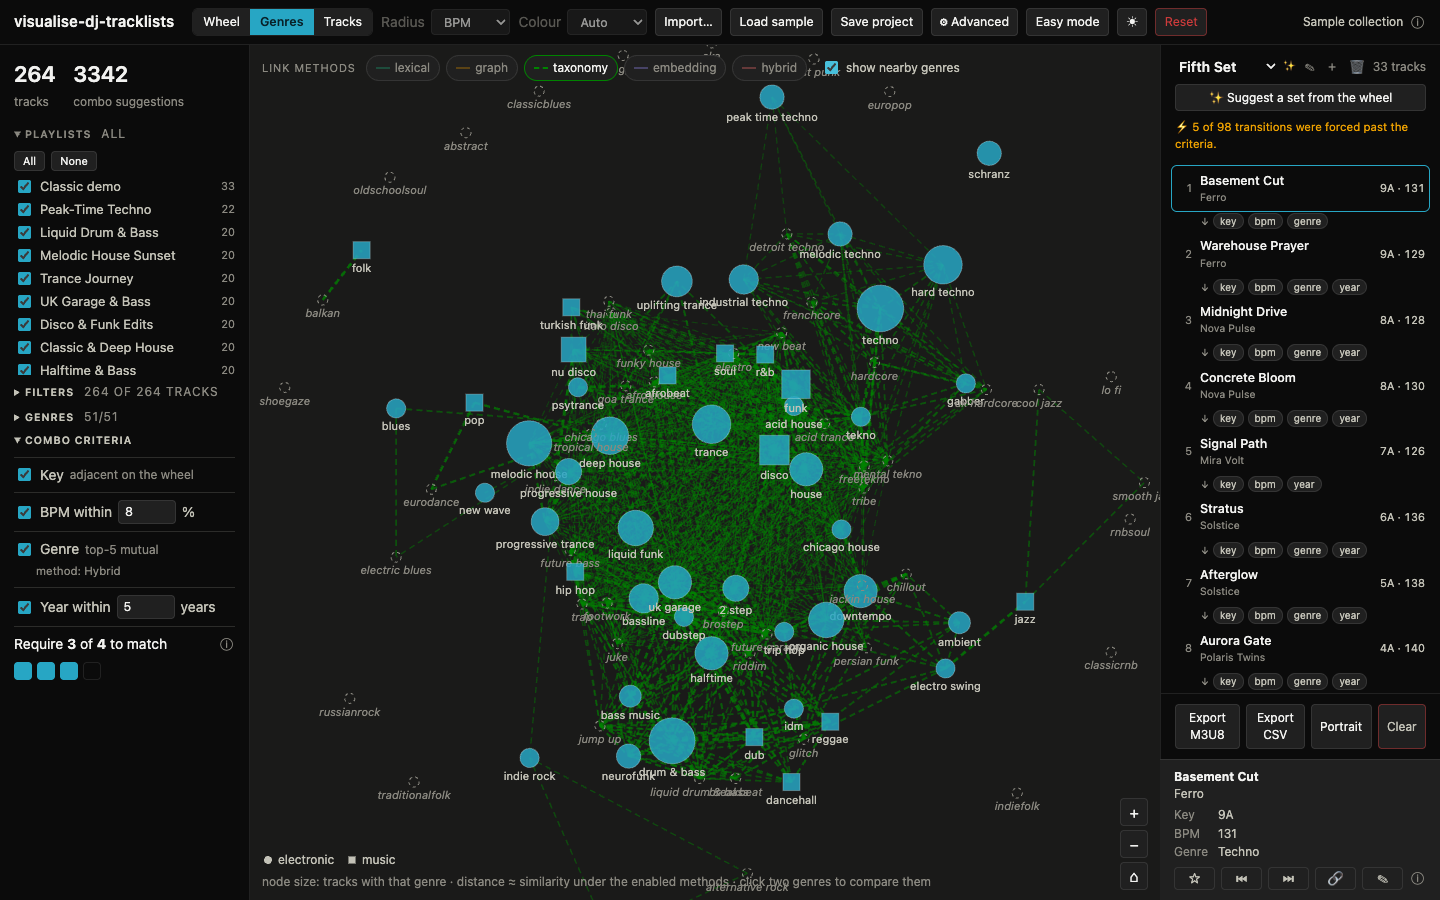
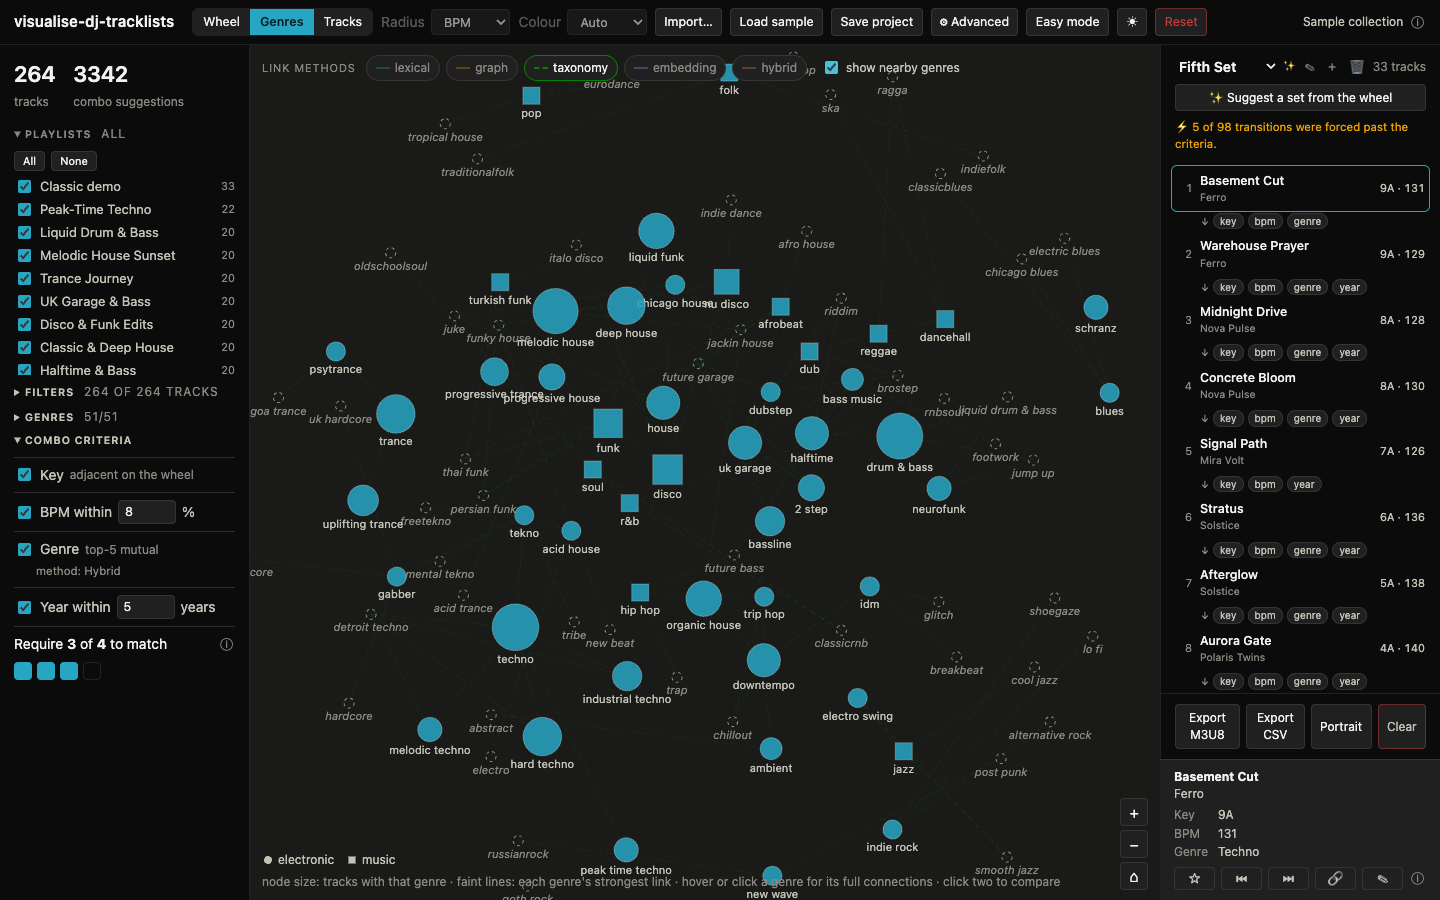
v13 WS5: E2E covers pin/skeleton/pair/tethers, README + screenshot, design-v13.md
The E2E genre-map block now asserts the 1:1 drag pin at the node's CTM
anchor (the old bbox-centre grab could miss the hit circle, and "the node
moved" was satisfiable by settle drift alone), the resting-skeleton density
bound, at most one bold edge while comparing, and ghost-tether growth
bounds. README's map bullet describes the new drag/skeleton/focus/tether
behaviour (and the stale 27-properties count becomes 28); genre-map.png
refreshed; IDEAS.md backlog labels renumbered v13+ → v14+ now that v13 is
this round. Full run: CONSOLE ERRORS: none.

diff --git a/docs/designs/design-v13.md b/docs/designs/design-v13.md
@@ -1,0 +1,105 @@
+# Design v13 — Genre-map polish: drag, calm, focus
+
+A short round scoped to a single view. Michiel reviewed the Genres view (2026-07-18)
+and dictated three issues; four design choices were settled by questions before
+implementation (every recommended option accepted). The importer wave previously
+pencilled in as v13 moves to **v14**.
+
+## The issues
+
+1. **Drag grabs the world, not the node.** Grabbing a genre moved the whole graph —
+   clumping together, lagging behind the hand — instead of the one node. Wanted:
+   classic force-graph dragging — the grabbed node stays exactly under the cursor,
+   everything else reacts only through its own links.
+2. **Overwhelming at ~36 genres.** The resting map drew every scoring pair; with
+   *show nearby genres* on it became "rather messy", and the motion felt rough at
+   that size.
+3. **Focus should work like the wheel.** All links showed at rest (hover merely
+   dimmed the rest). Wanted: click a genre → only its direct connections stay
+   visible; click a second → the pair's link is highlighted with the compare card,
+   exactly the wheel's focus idiom.
+
+## Decisions taken with Michiel
+
+| Topic | Decision |
+| --- | --- |
+| Resting state | **Faint skeleton**: each genre draws only its single strongest link, thin and dim, opacity easing down as the map grows |
+| Compare state | **Only the A–B link** highlighted over the resting skeleton; the card carries the scores |
+| Nearby ghosts | **Anchor links only**: a ghost draws — and is pulled by — just its link(s) to the library genre(s) that summoned it |
+| Physics | **Calmer when bigger**: damping grows and reheat/drag energy shrinks with node count |
+| Drag | Tow removed outright (background drag already pans); the pin stays and becomes real |
+
+Key invariant: the *layout* keeps using the full similarity structure — only the
+*drawn* set shrinks, so clusters keep their shape while the map stops shouting.
+
+## What shipped
+
+### The drag was never a pin — a Svelte 5 proxy bug (issue 1)
+
+The v11 drag "pinned" the node with `fx`/`fy` and towed the gravity targets. Debugging
+v13 revealed the pin had **silently never worked**: the simulation nodes were deep
+`$state` proxies, so `dragging.fx = …` wrote into proxy state that d3 never reads.
+Only the tow (a d3 API call) had any effect — which is precisely the "whole graph
+follows, node lags" feel Michiel reported.
+
+The bridge is now explicit ([GenreMapView.svelte](../../src/lib/GenreMapView.svelte)):
+the tick publishes **plain snapshots** of the simulation nodes into `$state.raw`
+(fresh object identities every tick — identical identities make the keyed `{#each}`
+skip row updates, which froze the render in an intermediate attempt), while pointer
+handlers reach the **live d3 nodes** through a non-reactive `simById` map. Pointer
+moves write `fx/fy` *and* `x/y` and republish immediately, so the node tracks the
+cursor with zero lag (verified: 0.00 px pin error while moving and holding; distant
+nodes' median motion 1.6 px — no towing, only link-neighbours respond). The tow, its
+strengthened gravity and `dragOrigin` are gone.
+
+### Skeleton + wheel-style focus (issues 2 + 3)
+
+New pure module [src/core/genreMap.ts](../../src/core/genreMap.ts):
+
+- `skeletonKeys` — union over nodes of each node's strongest incident edge
+  (deterministic ties). The resting map draws only these, at `skeletonOpacity(n)`
+  (0.42 easing to a 0.16 floor, the same √(n/22) family as the containment gravity).
+- `edgeTier` — the focus state machine: `pair` (compare link) > `star` (hovered or
+  selected genre's full connections) > `skeleton` > not drawn. Hover previews from
+  any state; the old 0.06 hover-dim of the full hairball is gone entirely.
+- On the 50-genre sample collection the resting map fell from every scoring pair to
+  **29 edges**; hovering/selecting lights the genre's star; comparing shows the one
+  pair link over the skeleton.
+
+### Ghost anchors (issue 2)
+
+`ghostAnchors` records which library genre(s) summoned each unowned neighbour.
+A ghost's only edges — drawn *and* physical — are its anchor tethers (unconditional,
+no score floor: the tether is why the ghost exists); ghost↔ghost and stray
+ghost↔library pairs are gone from rendering and layout, so ghosts hug their
+summoners. Tethers rest visible at skeleton tier. Live: +53 ghosts now add 80 tether
+edges instead of every scoring ghost pair.
+
+### Physics calm
+
+`mapMotion(n)`: velocityDecay 0.6 → 0.8 and drag reheat 0.15 → 0.06 as the map grows
+past 22 nodes (√-scaled, clamped). The drag reheat's base is deliberately **half of
+d3's classic 0.3** — with this map's slow cooling (alphaDecay 0.002), 0.3 kept the
+whole field boiling for as long as the mouse was held. Data-change reheats start at
+alpha 0.3 when most nodes carry previous positions (a toggle glides; a cold start
+keeps full energy to spread from the centre spawn).
+
+## Verification
+
+- `tests/genreMap.test.ts` (22 unit tests: skeleton, tiers, opacity/motion scaling,
+  ghost anchors); full suite green.
+- Live Playwright probes per workstream: drag pin 0.00 px / no tow; resting 29 edges
+  on 50 nodes; hover/select/compare/clear cycle; ghost tether bounds; toggling
+  *show nearby genres* off restores the exact resting count.
+- [scripts/screenshot.mjs](../../scripts/screenshot.mjs) extended: resting-skeleton
+  density bound, anchor-based 1:1 drag-pin assertion (the old bbox-centre grab could
+  miss the hit circle and "passed" via settle drift), ≤1 bold edge while comparing,
+  ghost-tether growth bounds.
+
+## Non-goals
+
+- No changes to any other view, the schema, or persistence.
+- The compare card's scores still show for unlinked pairs — an honest "no line to
+  draw" rather than a synthetic edge.
+- Shift-drag towing (or any tow revival) is out: Michiel called it "not very
+  useful", and background panning already moves the view.

diff --git a/README.md b/README.md
@@ -60,21 +60,24 @@ Your library never leaves your machine — there is no backend, no account, no u
   make no distinction. Rating and year rings only sit on whole values.
 - **Map the genres**: a second central view (Wheel | Genres | Tracks switch) lays your
   library's genres out with a force simulation — screen distance approximates the
-  distance measure, and you can **grab a node and drag it — the whole graph leans
-  after it** through empty space (gravity is towed along with the drag) and drifts
-  home when you let go (panning stays on the background; the re-layout eases in
-  slowly enough to follow). Node icons here always follow the **curated genre
-  families**, with a shape legend at the bottom.
+  distance measure, and you can **grab a genre and move it**: the node pins exactly
+  under your cursor while the rest of the map responds only through its own links,
+  then everything drifts home when you let go (panning stays on the background; the
+  re-layout eases in slowly enough to follow). Node icons here always follow the
+  **curated genre families**, with a shape legend at the bottom.
   **One method's edge overlay draws at a time** — it follows your active criterion
   method (drawing exactly the pairs the criterion links, k/threshold included), or
   pick another on the chips; switching never leaves the old overlay stacked.
-  **Click two genres to compare them**: a docked card locks with every method's
-  score for the pair (hovering a single edge still works); a "show nearby genres"
-  toggle ghosts in related genres you don't own yet.
+  **The map rests on a faint skeleton** — each genre keeps only its strongest link,
+  dimming as the vocabulary grows; **hover or click a genre** to light up its full
+  connections (the wheel's focus rule), and **click two genres to compare them**: a
+  docked card locks with every method's score while only the pair's own link stays
+  highlighted. A "show nearby genres" toggle ghosts in related genres you don't own
+  yet, each tethered to the library genre that summoned it.
 - **Browse the tracks**: the third central view is a classic sortable table of
   everything the wheel shows — playlists AND filters scope it — with every column
   sortable (keys in Camelot order, missing values last, ratings as stars), and the
-  sort survives view switches. Every track property — **27 of them, everything the
+  sort survives view switches. Every track property — **28 of them, everything the
   Rekordbox XML carries**, from Artist to Play count to file Location — has a row
   in the advanced **"Track properties" table** with two checkboxes: **shown as a
   column** here, and **shown as a filter** in the left panel. **Drag the headers**

diff --git a/docs/IDEAS.md b/docs/IDEAS.md
@@ -2,7 +2,7 @@
 
 Triaged 2026-07-18 against everything shipped through v11; the resulting v12 plan
 lives in [designs/design-v12.md](designs/design-v12.md). Statuses: **done** ·
-**v12** (planned) · **v13+** (backlog, shaped) · **rejected** (with why) ·
+**v12** (planned) · **v14+** (backlog, shaped) · **rejected** (with why) ·
 **research** (gated in
 [science/genre-distance-measures.md](science/genre-distance-measures.md)).
 
@@ -36,14 +36,14 @@ lives in [designs/design-v12.md](designs/design-v12.md). Statuses: **done** ·
   in spirit.
 - **Edges from existing DJ mixes on Spotify** — **rejected** as stated (the
   relevant Spotify APIs died Nov 2024; mixes aren't tracklists). Reframed as
-  **travelled edges** from imported tracklist documents — **v13+**, the "DJ
+  **travelled edges** from imported tracklist documents — **v14+**, the "DJ
   fingerprints" roadmap item and the app's namesake.
 - **Edges from musical rhyme (similar melodies in distinct keys)** —
   **research**: needs audio analysis; parked behind Essentia.js (P5).
 - **Vinyl mode per node + user input for vinyl-only tracks** — **v12** minimal:
   per-track vinyl flag + manual key/BPM/genre entry; Discogs import lands on top
-  in v13+.
-- **Edges based on links between comments** — **v13+**: once Comments parsing
+  in v14+.
+- **Edges based on links between comments** — **v14+**: once Comments parsing
   lands (v12 energy), a shared-comment-tag criterion is cheap.
 - **More parameters (energy, melody, …; analyse mp3s directly)** — split:
   **v12** parses Mixed-In-Key-style energy from Comments; direct audio analysis
@@ -80,11 +80,11 @@ lives in [designs/design-v12.md](designs/design-v12.md). Statuses: **done** ·
 
 ## Integration
 
-- **Formats from other software (VirtualDJ, …)** — **v13+**: flexible
+- **Formats from other software (VirtualDJ, …)** — **v14+**: flexible
   column-mapping import first (the enabler), then VirtualDJ, Traktor/Serato.
-- **Better playlist-export integration (different heading types)** — **v13+**:
+- **Better playlist-export integration (different heading types)** — **v14+**:
   the column-mapping import step is exactly this.
-- **Discogs export (vinyl collections)** — **v13+**, on top of v12's vinyl
+- **Discogs export (vinyl collections)** — **v14+**, on top of v12's vinyl
   minimal.
 - **Full integration inside Rekordbox (or open-source alternatives)** —
   **rejected** as stated: rekordbox has no plugin API. The real path is the
